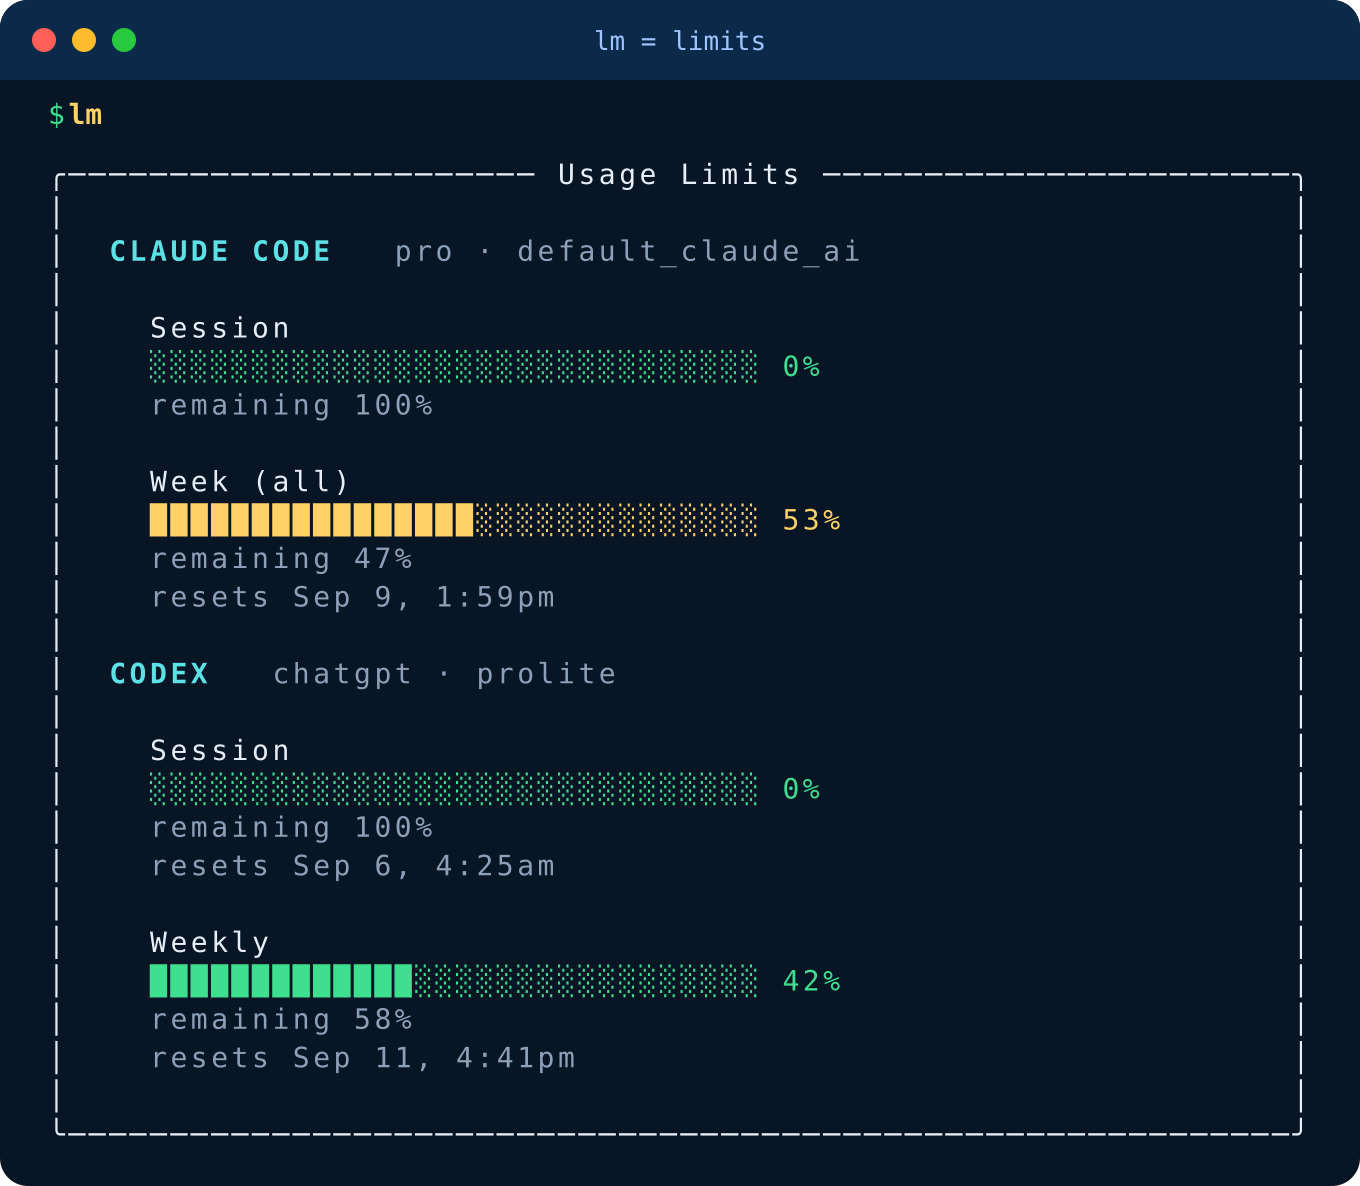
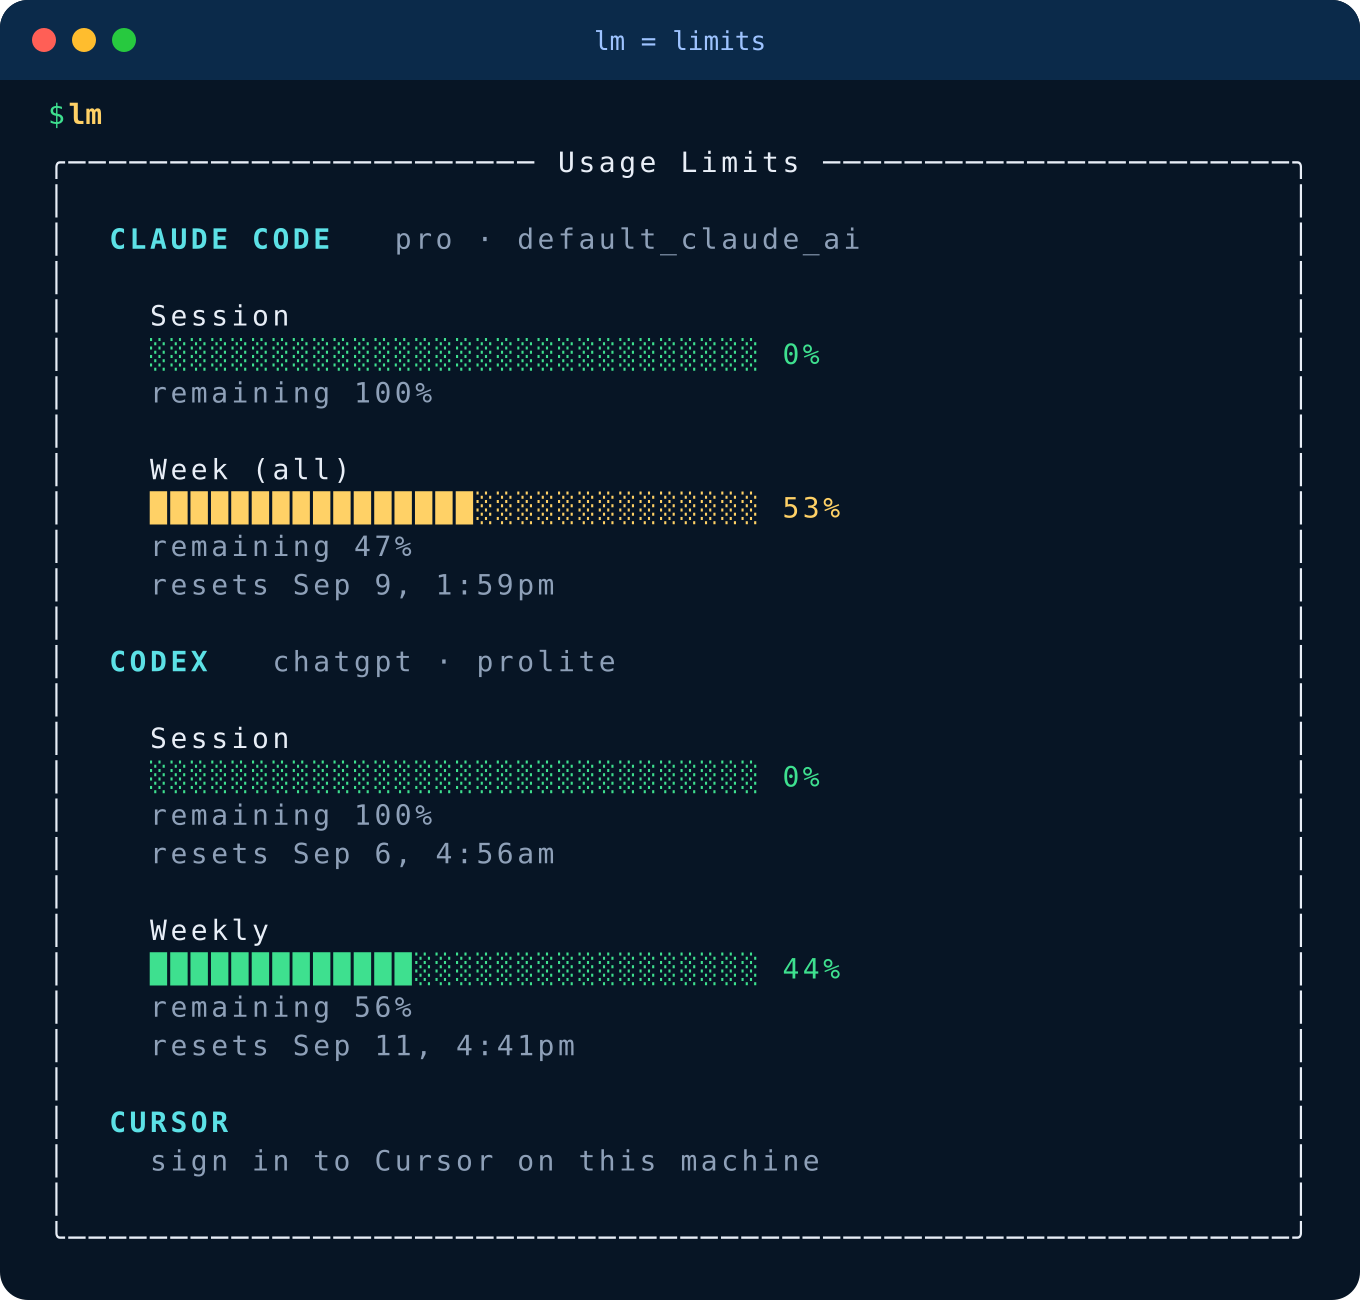
Show Cursor model and third-party usage in lm.

diff --git a/README.md b/README.md
@@ -17,9 +17,11 @@ Needs `python3`. Already on the cluster.
 
 Same command: `limits`.
 
-<img src="docs/lm.png" alt="lm showing usage limits for Claude and Codex" width="620">
+Shows Claude, Codex, and Cursor. Cursor has two bars: Cursor's own models, and third-party models.
 
-Green = lots left. Yellow = you're into the week.
+<img src="docs/lm.png" alt="lm showing usage limits for Claude, Codex, and Cursor" width="620">
+
+Green = lots left. Yellow = you're into the week. Cursor needs to be signed in on this computer.
 
 ## `status` = what's going on?
 
